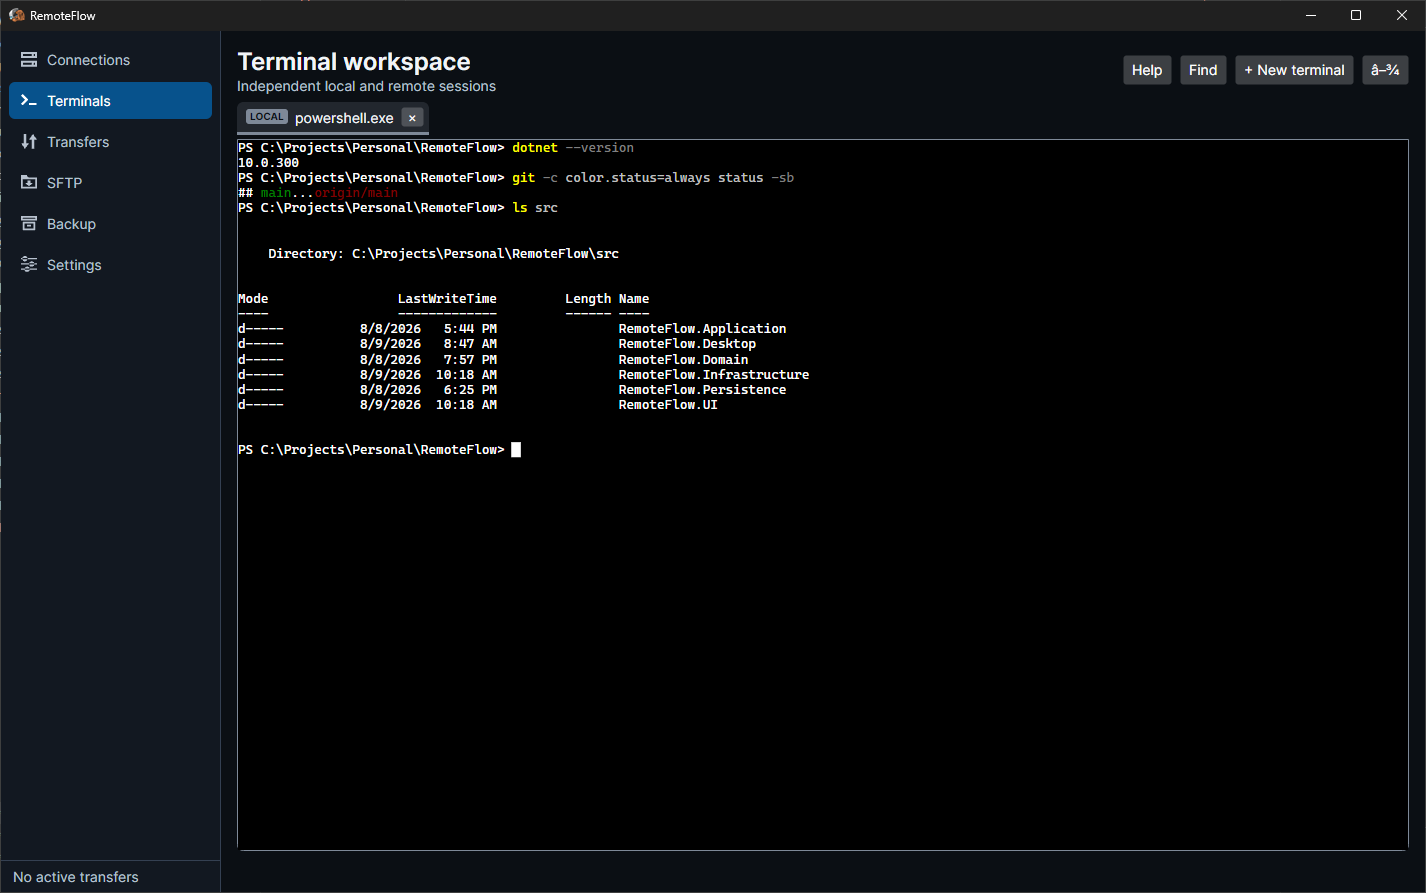
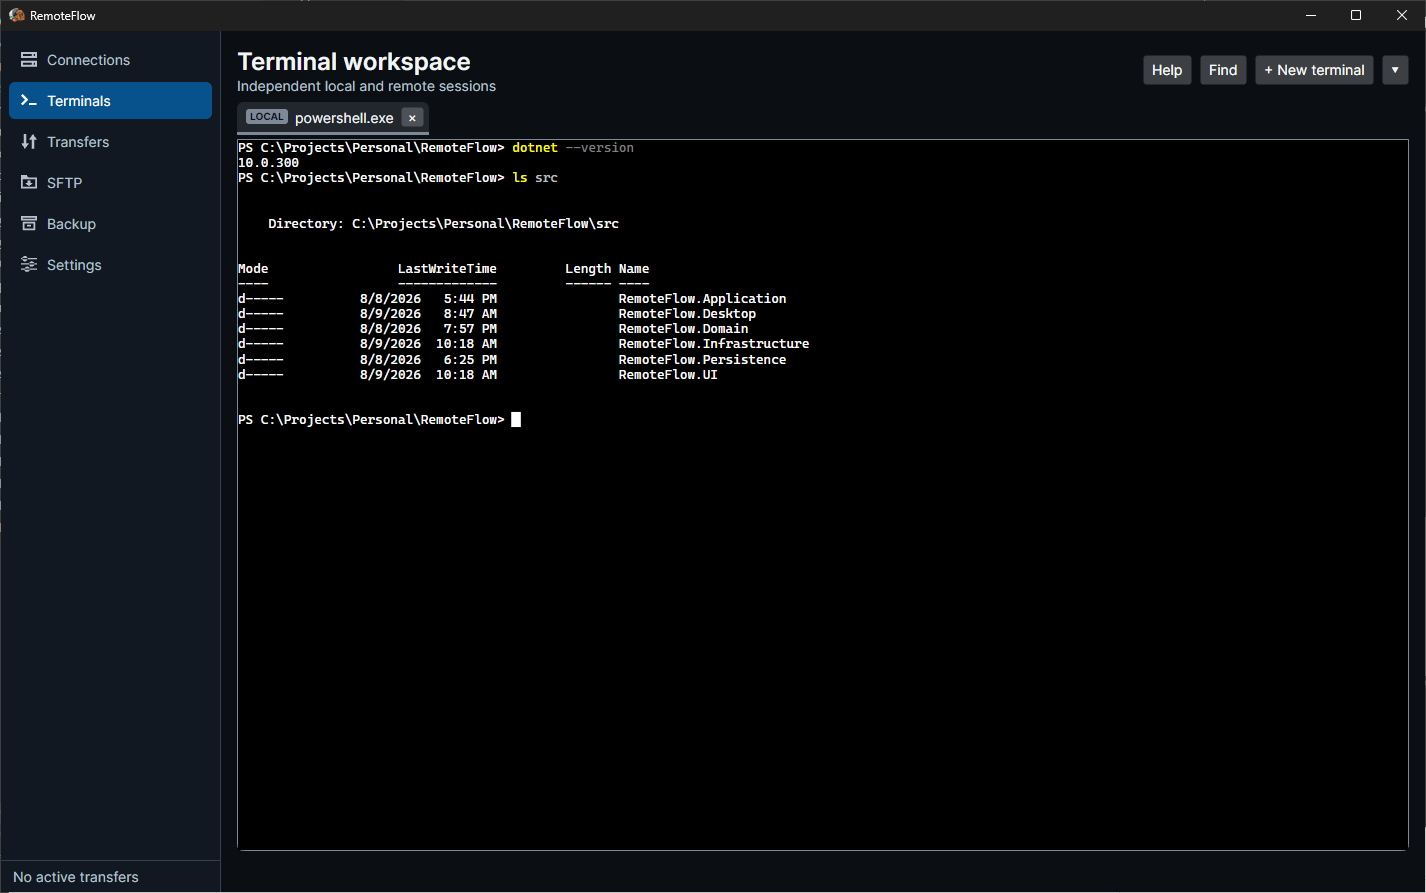
fix: restore the terminal workspace arrows (#69)
* fix: restore the terminal workspace arrows

The shell-profile dropdown, the find bar's next and previous buttons, and its
close button were rendering as two or three garbled letters. The characters in
TerminalWorkspace.axaml had been read as Windows-1252 once and written back as
UTF-8, so the file stored the damage rather than the symbols: U+25BE, U+2191,
U+2193, and U+00D7 had each become the mojibake of their own UTF-8 bytes.

Restored the four characters and rewrote the file as UTF-8 without a BOM, which
is what every other view uses. A sweep of the rest of the tree for the same
Windows-1252 markers found nothing else; the correctly encoded glyphs elsewhere
in this same file are why it went unnoticed.

* docs: retake the terminal screenshot with the arrows fixed

The README image was captured before the previous commit and still shows the
garbled profile dropdown.

---------

diff --git a/CHANGELOG.md b/CHANGELOG.md
@@ -58,6 +58,9 @@ whatever commit carries a `v`-prefixed tag, so an entry here and a tag are two h
 
 ### Fixed
 
+- The terminal workspace shows its arrows again. The shell-profile dropdown, the find bar's next and
+  previous buttons, and its close button were each rendering two or three garbled letters instead of a
+  symbol: the characters had been saved once through a Windows-1252 decode and kept the damage.
 - The Windows taskbar button shows the RemoteFlow icon instead of a generic placeholder. Avalonia builds a
   24x24 icon for the window's large slot; the taskbar asks for 32x32 and falls back to the placeholder
   rather than accepting a different size, so RemoteFlow now applies the executable's own icon once the
